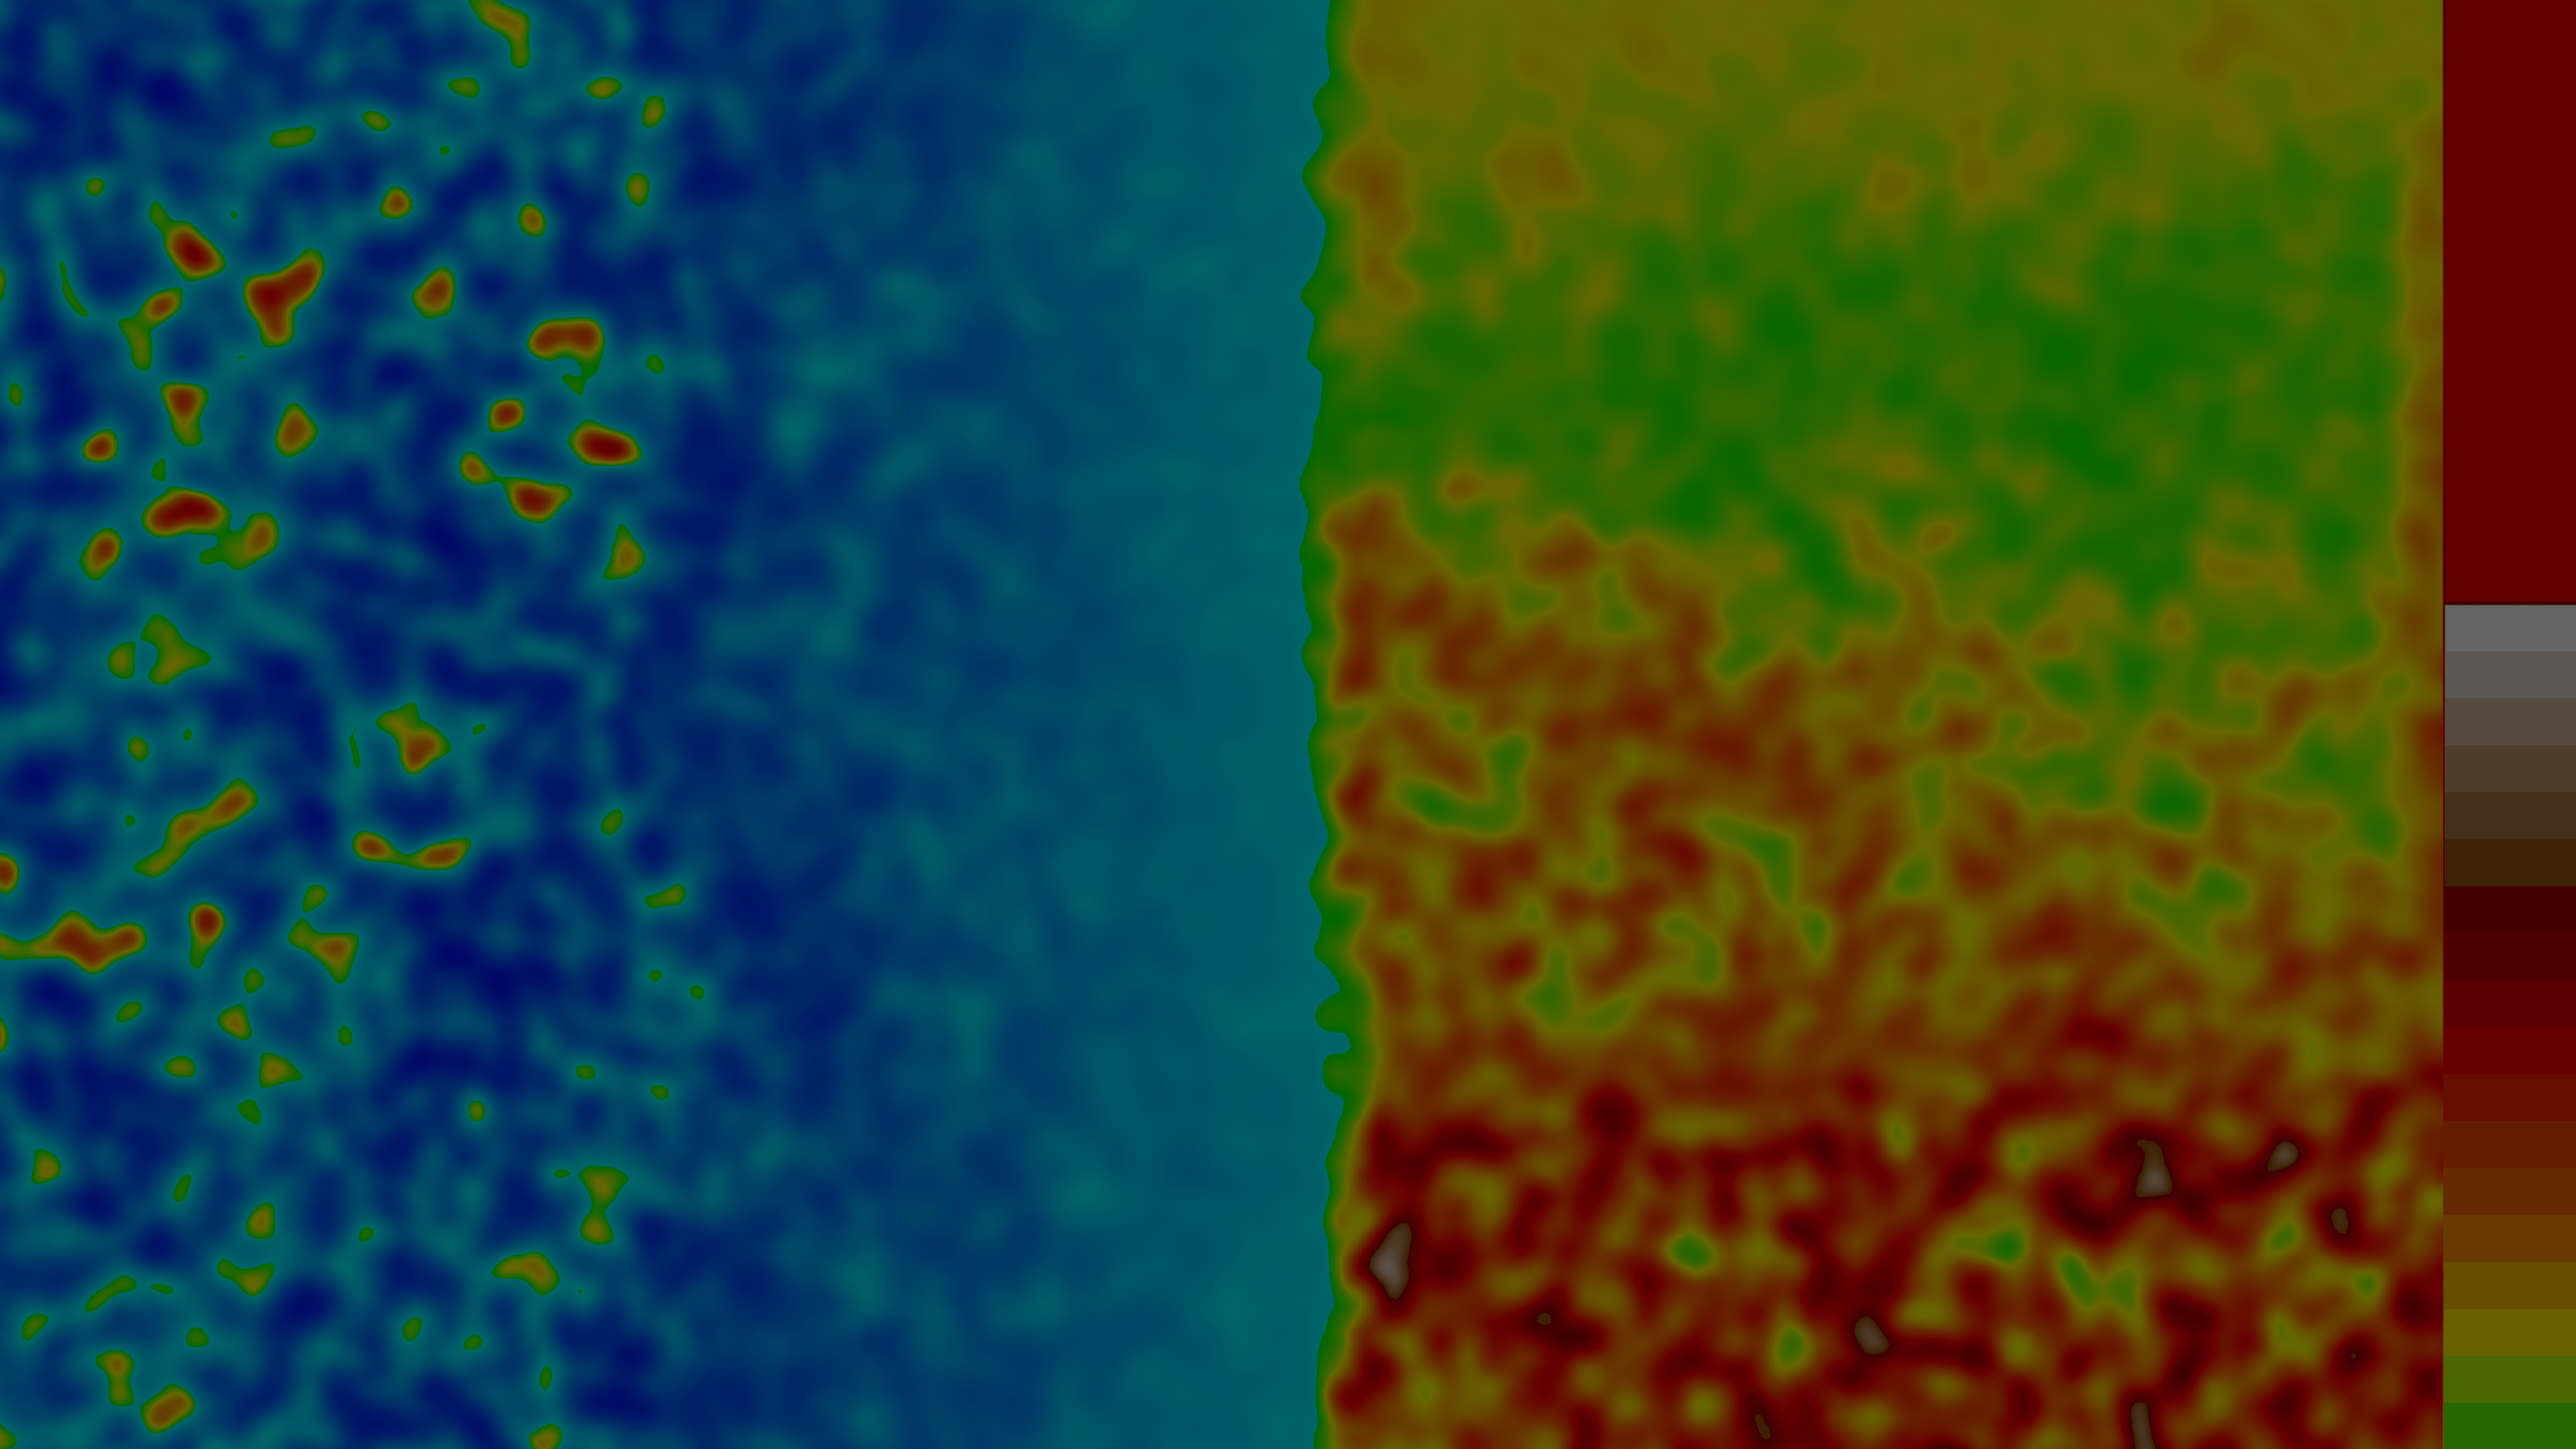
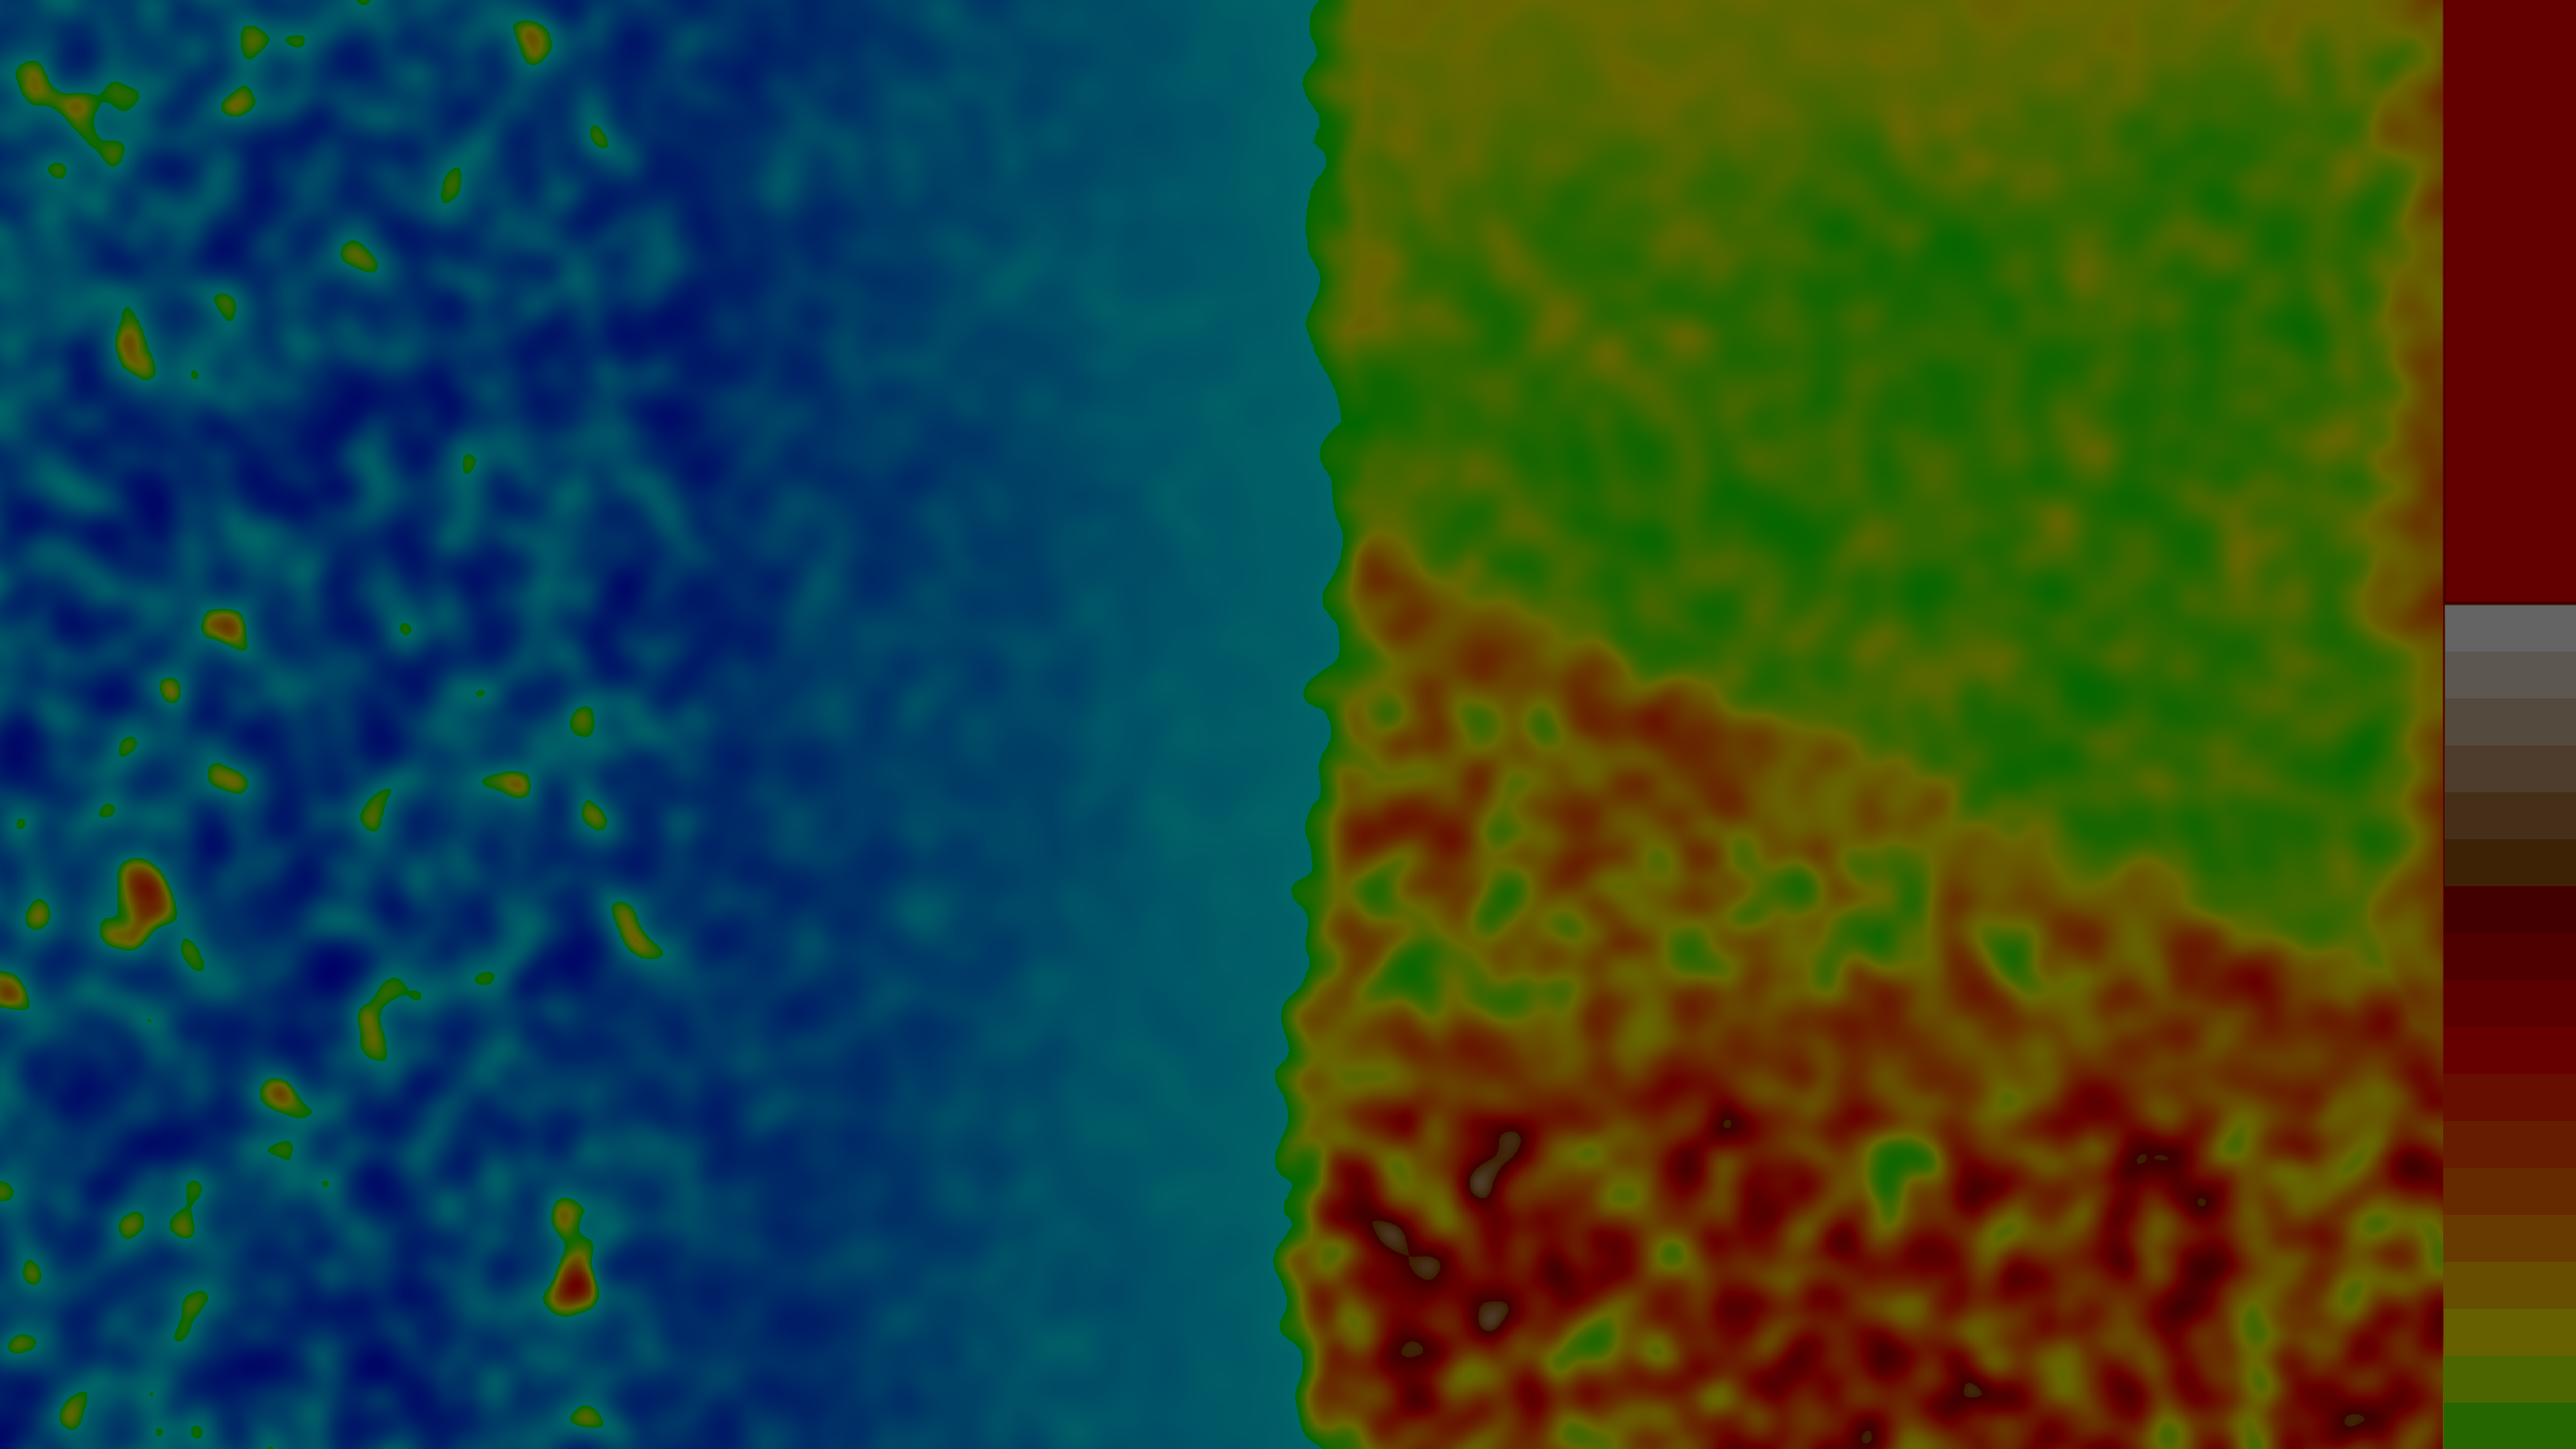
Tinkering with constants and initial map generation. Halted simulation after floating-point errors caused "year" to be stuck at 4096.0.

diff --git a/src/main.rs b/src/main.rs
@@ -435,7 +435,7 @@ fn simulate_erosion(
         "  BASE_SEA_LEVEL {}  MIN_NORTH_DESERT_HEIGHT {}  CENTRAL_HIGHLAND_HEIGHT {}  SOUTH_MOUNTAINS_HEIGHT {}",
         BASE_SEA_LEVEL, MIN_NORTH_DESERT_HEIGHT, CENTRAL_HIGHLAND_HEIGHT, SOUTH_MOUNTAINS_HEIGHT
     );
-    println!("  RIVER_Y {}  RIVER_SOURCE_X {}", RIVER_Y, RIVER_SOURCE_X);
+    println!("  OUTLET_Y {}  RIVER_SOURCE_X {}", OUTLET_Y, RIVER_SOURCE_X);
 
     let round_size = get_round_size();
 
@@ -529,11 +529,11 @@ fn simulate_erosion(
                 })
                 .max_by(|a, b| a.1.partial_cmp(&b.1).unwrap_or(Ordering::Equal))
                 .map(|(y, _)| y)
-                .unwrap_or(RIVER_Y);
+                .unwrap_or(OUTLET_Y);
 
             let source_hex = &hex_map[source_y][RIVER_SOURCE_X];
-            let outlet_hex = &hex_map[RIVER_Y][TOTAL_SEA_WIDTH];
-            let target_delta_hex = &hex_map[RIVER_Y][TOTAL_SEA_WIDTH - 231];
+            let outlet_hex = &hex_map[OUTLET_Y][TOTAL_SEA_WIDTH];
+            let target_delta_hex = &hex_map[OUTLET_Y][TOTAL_SEA_WIDTH - 231];
 
             // The more the hex we want to be the edge of the delta is dry, the more we want
             // we want to bring the sea level up to match.
@@ -1548,7 +1548,7 @@ fn main() {
 
         let simplex = Simplex::new(loaded_seed);
         let _sea_deviation_for_river_y: i16 =
-            get_sea_deviation(&simplex, RIVER_Y as f64, HEIGHT_PIXELS as f64 / 1.5);
+            get_sea_deviation(&simplex, OUTLET_Y as f64, HEIGHT_PIXELS as f64 / 1.5);
 
         (
             loaded_hex_map,
@@ -1576,19 +1576,19 @@ fn main() {
         let simplex = Simplex::new(seed);
         let noise_map = get_normalized_simplex_noise_map(&simplex);
         let sea_deviation_for_river_y: i16 =
-            get_sea_deviation(&simplex, RIVER_Y as f64, HEIGHT_PIXELS as f64 / 1.5);
+            get_sea_deviation(&simplex, OUTLET_Y as f64, HEIGHT_PIXELS as f64 / 1.5);
 
         let x_deviation_for_outlet = sea_deviation_for_river_y
             + get_land_deviation(
                 &simplex,
                 TOTAL_SEA_WIDTH as f64,
-                RIVER_Y as f64,
+                OUTLET_Y as f64,
                 DEVIATION_PERIOD,
             );
         let y_deviation_for_outlet = get_land_deviation(
             &simplex,
             (TOTAL_SEA_WIDTH + WIDTH_HEXAGONS) as f64,
-            RIVER_Y as f64,
+            OUTLET_Y as f64,
             96.0,
         );
 
@@ -1662,29 +1662,24 @@ fn main() {
                             (1.0 - distance_from_coast / NORTH_DESERT_WIDTH as f32)
                                 .clamp(0.0, 1.0),
                             SOURCE_Y as f32,
-                            RIVER_Y as f32,
+                            OUTLET_Y as f32,
                         );
 
-                        let basins_factor = (distance_from_coast.min(distance_from_basins)
-                        / TRANSITION_PERIOD as f32)
-                        .clamp(0.0, 1.0);
-                        // TODO: If/else is here because abs() didn't seem to work correctly, need to investigate.
-                        let mut factor1: f32 = 0.0;
-                        if deviated_x < TOTAL_SEA_WIDTH {
-                            factor1 = basins_factor;
-                        } else {
-                            factor1 = (distance_from_coast.min(distance_from_basins)
-                                / TRANSITION_PERIOD as f32)
-                                .clamp(0.0, 1.0);
-                        }
-                        factor1 = factor1
-                            .min(deviated_y as f32 / local_river_y as f32)
-                            .clamp(0.0, 1.0);
-                        factor1 = factor1.min(
-                            (local_north_desert_height - deviated_y) as f32
-                                / TRANSITION_PERIOD as f32,
-                        );
-                        factor1 = get_boundary_factor(factor1);
+                        let basin_factor = 1.0 - (distance_from_basins / TRANSITION_PERIOD as f32).clamp(0.0, 1.0);
+                        let highlands_factor = 1.0 - ((local_north_desert_height - deviated_y) as f32 / TRANSITION_PERIOD as f32).clamp(0.0, 1.0);
+                        let northeast_factor = 1.0 - (distance_from_coast.abs() / TRANSITION_PERIOD as f32).min(deviated_y as f32 / local_river_y as f32).clamp(0.0, 1.0);
+                        let boundary_factor = get_boundary_factor(northeast_factor.max(basin_factor).max(highlands_factor));
+
+                        // let plateau_height = local_north_desert_height.min(MIN_NORTH_DESERT_HEIGHT + TRANSITION_PERIOD as usize);
+                        // let plateau_factor = if deviated_y < plateau_height {
+                        //     1.0 - ((plateau_height - deviated_y) as f32 / TRANSITION_PERIOD as f32).clamp(0.0, 1.0)
+                        // } else {
+                        //     1.0
+                        // };
+                        let southwest_factor = basin_factor.max(highlands_factor);
+
+                        min_inland_elevation = pick_value_from_range(boundary_factor, LAKE_MIN_ELEVATION, BOUNDARY_ELEVATION);
+                        max_inland_elevation = pick_value_from_range(southwest_factor, FAR_NORTH_DESERT_MAX_ELEVATION, NORTH_DESERT_MAX_ELEVATION);
 
                         let (cx1, cy1) = hex_coordinates_to_cartesian(x as i32, deviated_y as i32);
                         let (cx2, cy2) = hex_coordinates_to_cartesian(
@@ -1694,48 +1689,12 @@ fn main() {
                         // Area is oval-shaped, not circular, with the longer axis running east-west.
                         // I keep fiddling with the ratio of the longer axis to the shorter axis, for awhile I'd settled on 2:1 but
                         // seem to be having trouble making up my mind.
-                        let factor2 = (cartesian_distance(0.0, cy1, (cx2 - cx1) / 2.0, cy2)
+                        let outlet_factor = 1.0 -(cartesian_distance(0.0, cy1, (cx2 - cx1) / 2.0, cy2)
                             / (TRANSITION_PERIOD as f32))
                             .min(1.0);
 
-                        // TODO: Could make this local_north_desert_height instead, keeping it as-is while debugging.
-                        let factor3 = (y as f32 / MIN_NORTH_DESERT_HEIGHT as f32).clamp(0.0, 1.0);
-
-                        min_inland_elevation = BOUNDARY_ELEVATION * (1.0 - factor1) * factor2
-                            + (1.0 - factor2) * OUTLET_ELEVATION
-                            + factor1 * LAKE_MIN_ELEVATION;
-                        max_inland_elevation = pick_value_from_range(
-                            factor3,
-                            FAR_NORTH_DESERT_MAX_ELEVATION,
-                            NORTH_DESERT_MAX_ELEVATION,
-                        ) * factor2
-                            + (1.0 - factor2) * OUTLET_ELEVATION;
-
-                        if max_inland_elevation > BOUNDARY_ELEVATION {
-                            let local_river_y = pick_value_from_range(
-                                (1.0 - distance_from_coast / NORTH_DESERT_WIDTH as f32)
-                                    .clamp(0.0, 1.0),
-                                SOURCE_Y as f32,
-                                RIVER_Y as f32,
-                            );
-                            // let mut valley_transition_period = (TRANSITION_PERIOD as f32).max(local_north_desert_height as f32 - local_river_y);
-                            let mut valley_transition_period = TRANSITION_PERIOD as f32;
-                            if (deviated_y as f32) < local_river_y {
-                                valley_transition_period = local_river_y;
-                            } else {
-                                valley_transition_period = (TRANSITION_PERIOD as f32).max(local_north_desert_height as f32 - local_river_y);
-                            }
-                            let valley_factor = ((deviated_y as f32 - local_river_y)
-                                / valley_transition_period)
-                                .abs()
-                                .max(1.0 - basins_factor)
-                                .clamp(0.0, 1.0);
-                            max_inland_elevation = pick_value_from_range(
-                                valley_factor,
-                                BOUNDARY_ELEVATION,
-                                max_inland_elevation,
-                            );
-                        }
+                        min_inland_elevation = OUTLET_ELEVATION * outlet_factor + min_inland_elevation * (1.0 - outlet_factor);
+                        max_inland_elevation = OUTLET_ELEVATION * outlet_factor + max_inland_elevation * (1.0 - outlet_factor);
                     } else if deviated_y < MIN_NORTH_DESERT_HEIGHT + CENTRAL_HIGHLAND_HEIGHT {
                         let factor1 = ((deviated_y - local_north_desert_height) as f32
                             / TRANSITION_PERIOD as f32)

diff --git a/src/constants.rs b/src/constants.rs
@@ -12,7 +12,7 @@ pub const WIDTH_PIXELS: usize = 3840;
 pub const WIDTH_HEXAGONS: usize = (WIDTH_PIXELS as f32 / HEX_FACTOR) as usize;
 
 pub const DAYS_PER_YEAR: f32 = 365.2422;
-pub const STEPS_PER_DAY: f32 = 7.0;
+pub const STEPS_PER_DAY: f32 = 12.0;
 pub const YEARS_PER_STEP: f32 = 1.0 / DAYS_PER_YEAR / STEPS_PER_DAY;
 // Above numbers are in inches per year, this can be adjusted to e.g. feet per year.
 pub const MAX_EVAPORATION_PER_YEAR: f32 = 2.0;
@@ -21,8 +21,8 @@ pub const MAX_EVAPORATION_PER_YEAR: f32 = 2.0;
 pub const ONE_DEGREE_LATITUDE_MILES: f32 = 69.0;
 pub const TRANSITION_PERIOD: f64 = ONE_DEGREE_LATITUDE_MILES as f64 * 2.0;
 pub const DEVIATION_PERIOD: f64 = 96.0;
-pub const RIVER_Y: usize = (4.5 * ONE_DEGREE_LATITUDE_MILES * 2.0) as usize;
-pub const SOURCE_Y: usize = MIN_NORTH_DESERT_HEIGHT / 2;
+pub const OUTLET_Y: usize = (4.5 * ONE_DEGREE_LATITUDE_MILES * 2.0) as usize;
+pub const SOURCE_Y: usize = TRANSITION_PERIOD as usize;
 pub const MIN_NORTH_DESERT_HEIGHT: usize = (6.5 * ONE_DEGREE_LATITUDE_MILES * 2.0) as usize;
 pub const NE_BASIN_HEIGHT: usize = MIN_NORTH_DESERT_HEIGHT;
 pub const CENTRAL_HIGHLAND_HEIGHT: usize =
@@ -71,7 +71,7 @@ pub const KD: f32 = 0.01; // deposition rate fraction
 
 // Used to attempt to compensate for predictable loss of highest peaks over time.
 // 0.5 factor is targeted rise / run ratio of the highest peaks.
-pub const RAIN_BASED_UPLIFT_FACTOR: f32 = KC * KE * 0.5;
+pub const RAIN_BASED_UPLIFT_FACTOR: f32 = KC * KE;
 
 pub const FLOW_FACTOR: f32 = 0.9;
 // Might take 7k-10k rounds to carve out the river valley I want.
